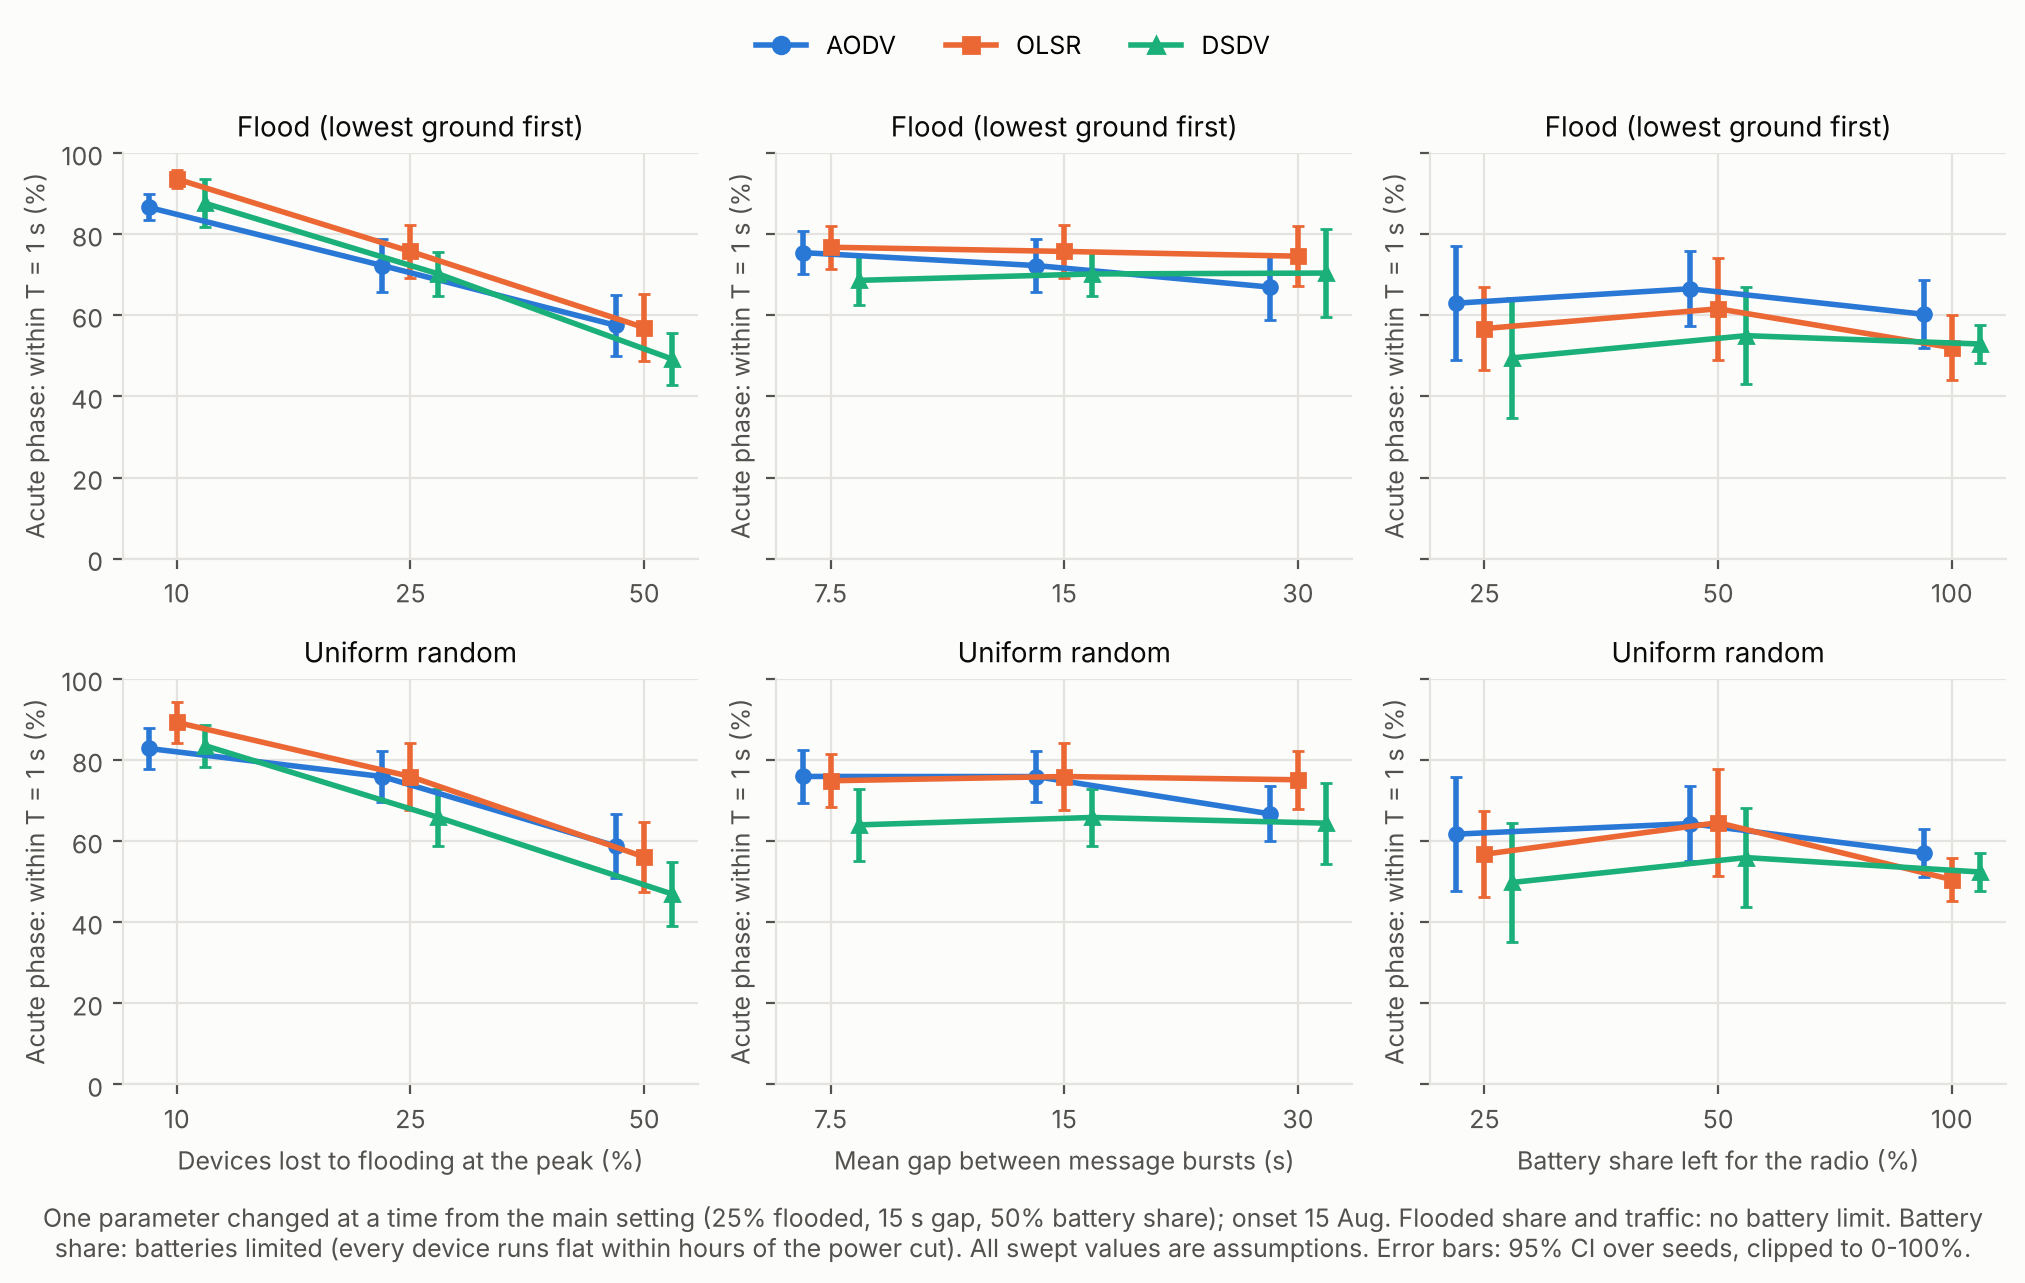
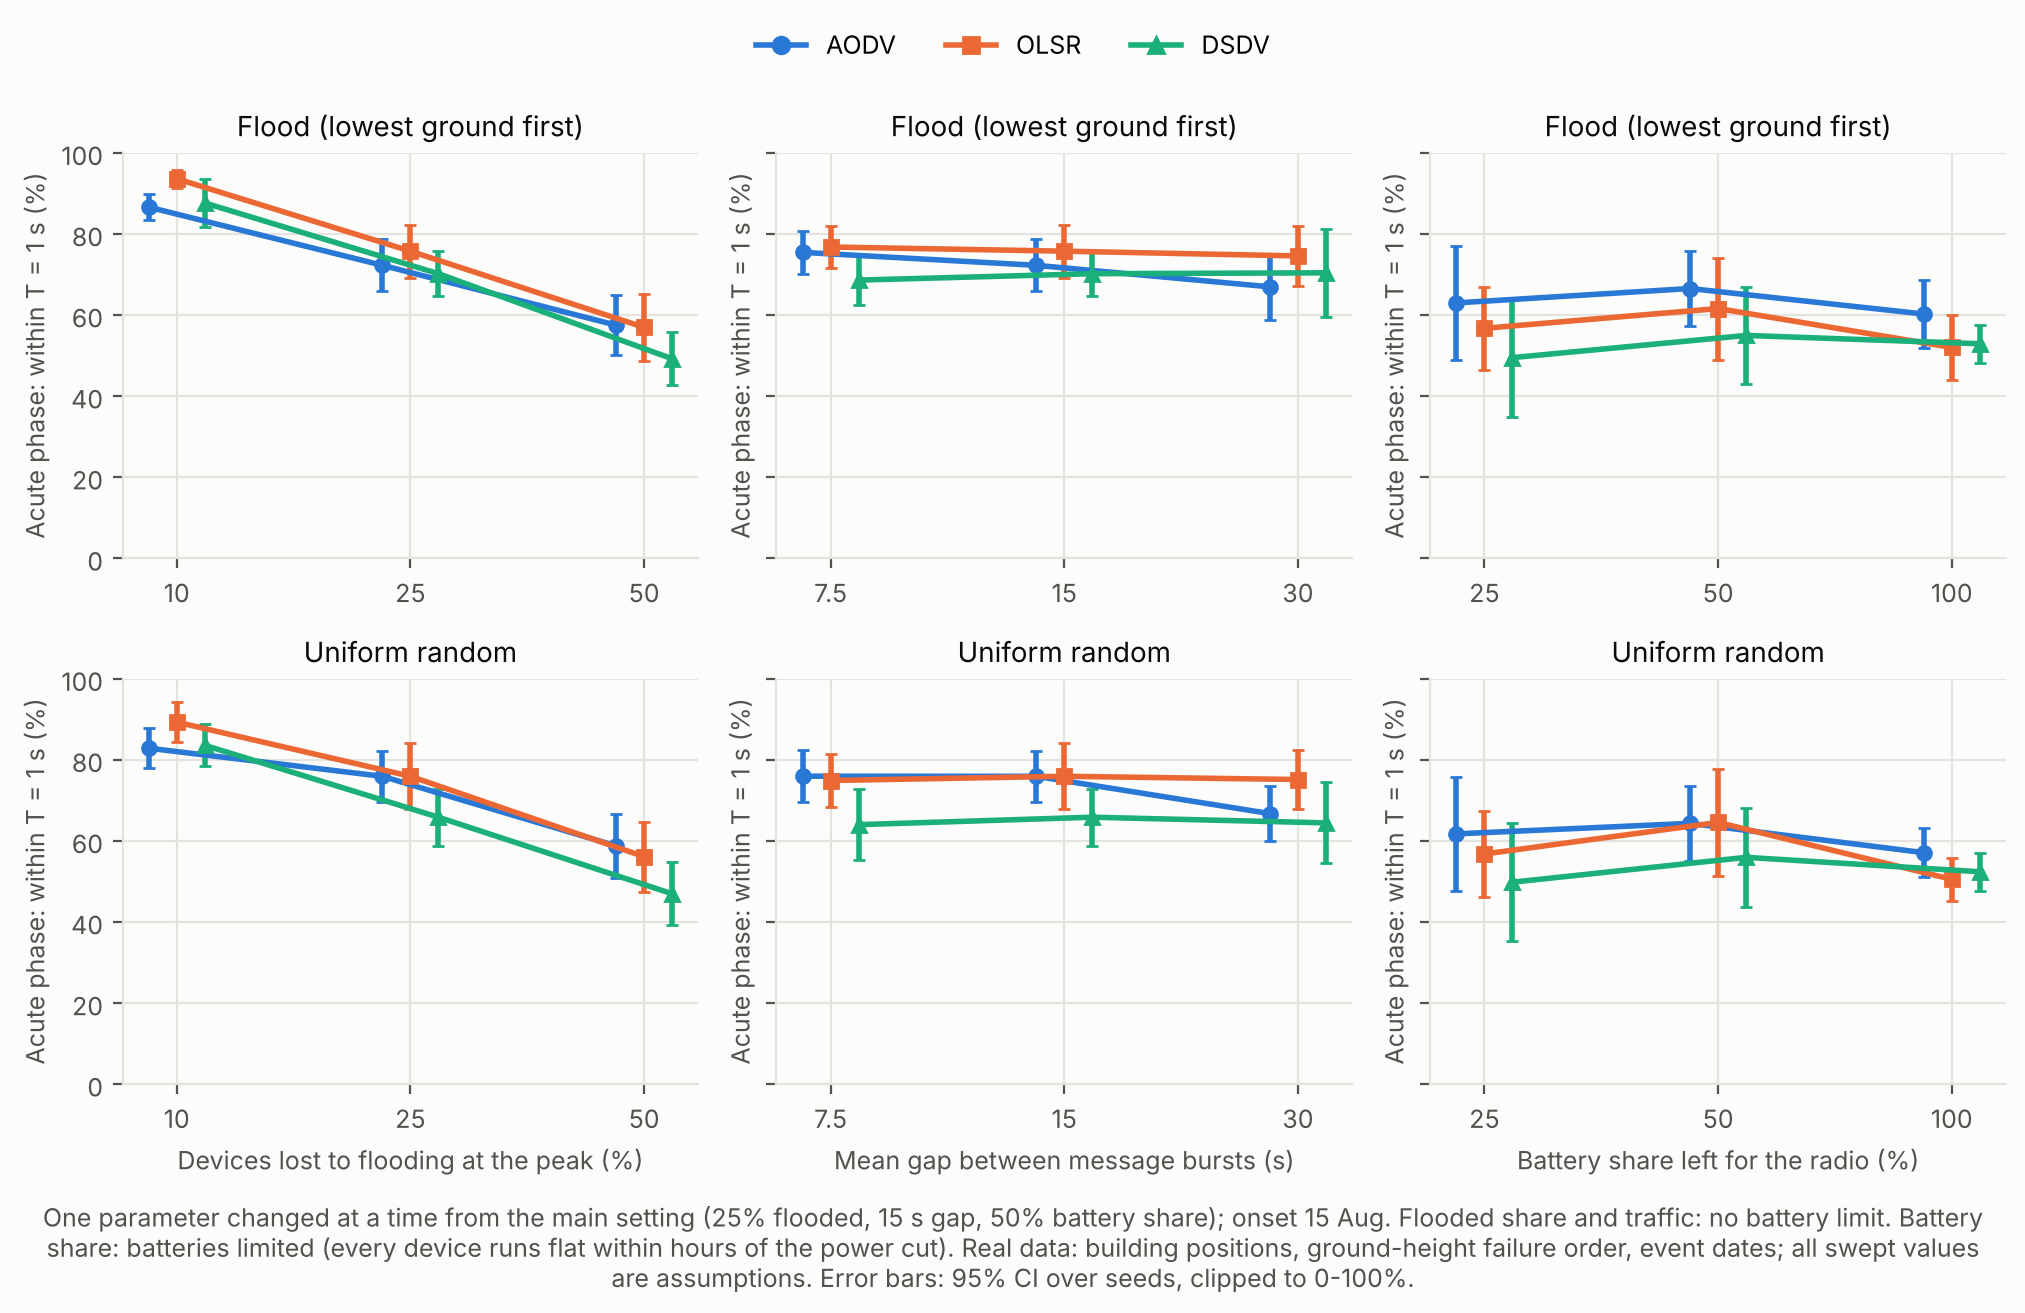
Chalakudy: caption names real-data parts; diamond rerun logged
Claude-Session: https://claude.ai/code/session_01SMHd9GL6cjK1EMd9HjBc4R

diff --git a/experiments/analyze_chalakudy.py b/experiments/analyze_chalakudy.py
@@ -496,7 +496,8 @@ def fig_sensitivity(df):
     savefig(fig, "chalakudy_sensitivity_acute",
               "One parameter changed at a time from the main setting (25% flooded, 15 s gap, 50% battery share); onset "
               "15 Aug. Flooded share and traffic: no battery limit. Battery share: batteries limited (every device runs "
-              "flat within hours of the power cut). All swept values are assumptions. Error bars: 95% CI over seeds, "
+              "flat within hours of the power cut). Real data: building positions, ground-height failure order, event dates; "
+              "all swept values are assumptions. Error bars: 95% CI over seeds, "
               "clipped to 0-100%.")
 
 

diff --git a/data/chalakudy/WORKLOG.md b/data/chalakudy/WORKLOG.md
@@ -199,3 +199,4 @@ Pilot `chalakudy_pilot` (no-flood control only; 100 and 150 devices; batteries l
 - Traffic sweep: in the no-flood control, OLSR's lead over AODV in delivery within 1 s grows with the gap between bursts (about 4, 9 and 12–15 points at 7.5, 15 and 30 s), as do AODV's route discoveries per burst (1.6, 2.3, 3.0) and its 95th-percentile discovery time (0.5, 1.0, 1.3 s), while AODV's PDR stays at 97–98%. Consistent with AODV routes expiring between bursts; not tested directly.
 - Results summary with caveats: `experiments/README.md`, end of section 8. While writing it, several of my first statements were too broad and were corrected against the tables: the number of flood-vs-uniform comparisons (87 on all packets, none significant; 78 on connected packets, 2 significant), the protocol-test counts across configurations, and the battery lifetimes (the last device runs flat 4, 7 and 14 real hours after the cut for 25/50/100% of the battery).
 - Also replaced the hand-made QA map mentioned in the 07:12 entry (it showed wrong building points) with a scripted one, `results/analysis_chalakudy/figures/chalakudy_qa_geolocation`.
+- 10:41 UTC: diamond sim rerun after the second `manet.cc` change (log-distance option): AODV and OLSR outputs identical to the rerun made after the first change. Sensitivity-figure caption now also names the real-data parts; analysis rerun twice, still byte-identical.
